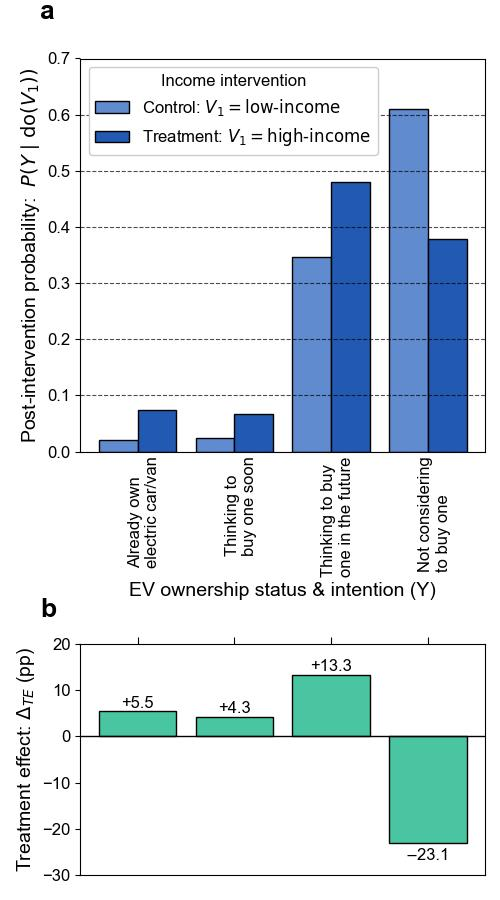
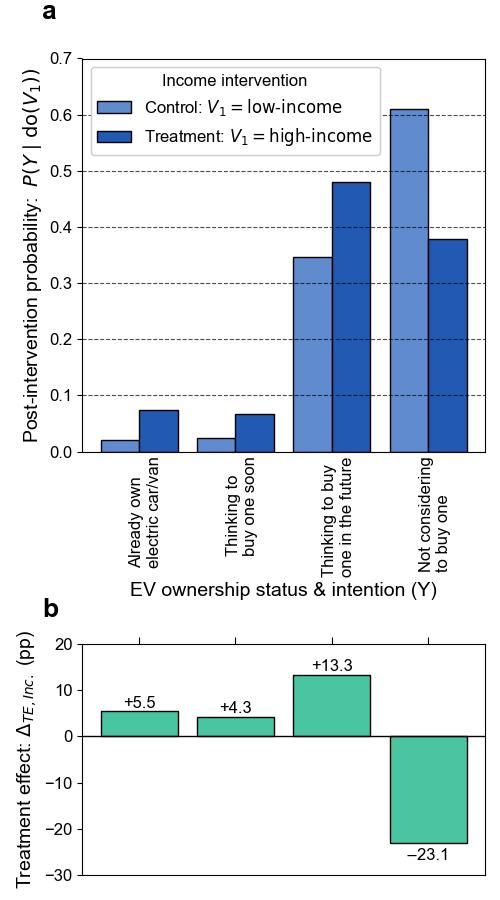
renamed TE symbol for income

diff --git a/Plotter.py b/Plotter.py
@@ -131,7 +131,7 @@ class Plotter():
         ax.bar(b_income_interv, treatment_effects, bar_width, color="#49C5A2", edgecolor='black')
         
         ax.set_xticks(b_income_interv, ['', '', '', ''])
-        ax.set_ylabel("Treatment effect: " r"$\Delta_{TE}$" " (pp)", fontsize=14)
+        ax.set_ylabel("Treatment effect: " r"$\Delta_{TE,Inc.}$" " (pp)", fontsize=14)
         
         ax.set_ylim(-30, 20)
         
